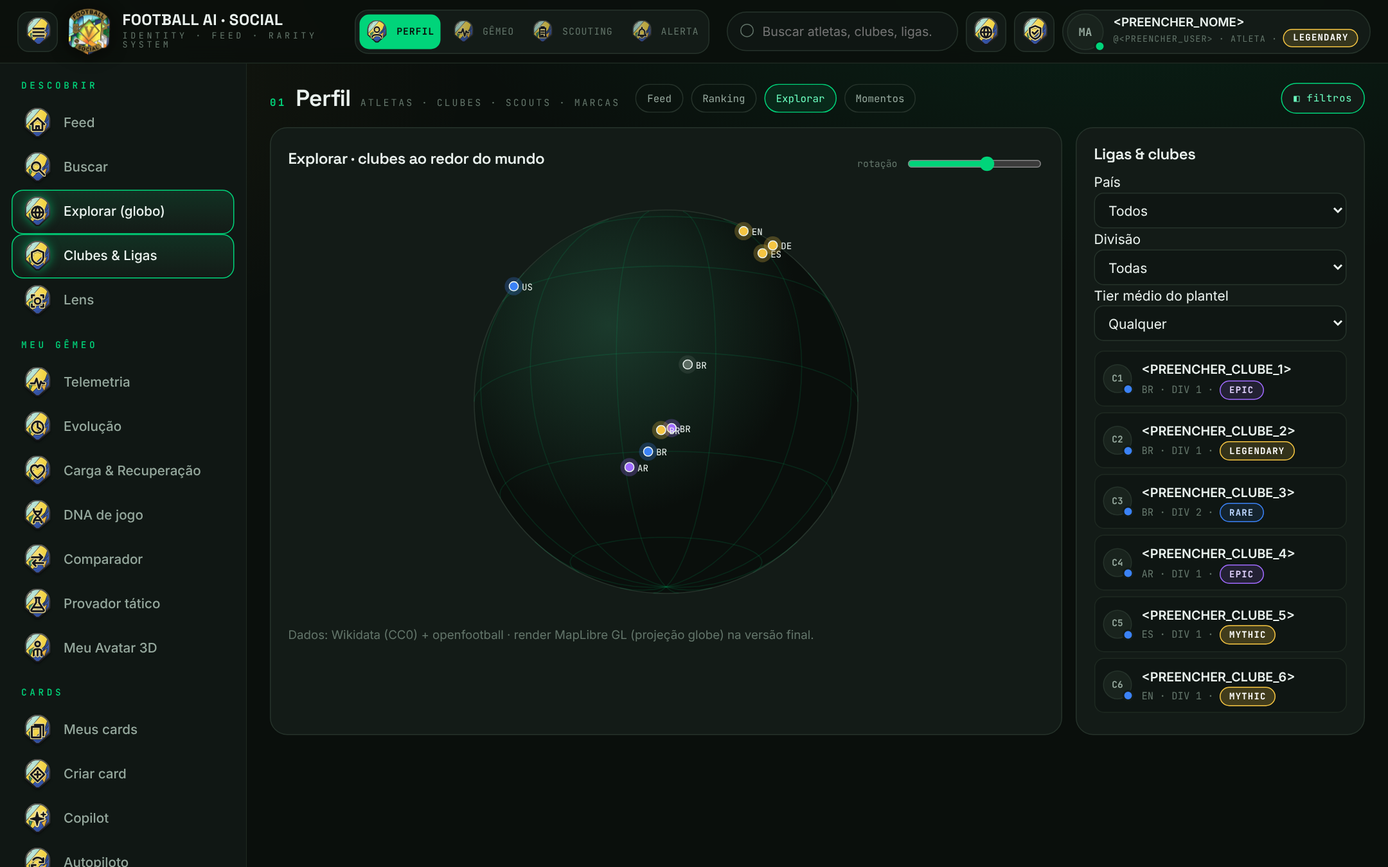
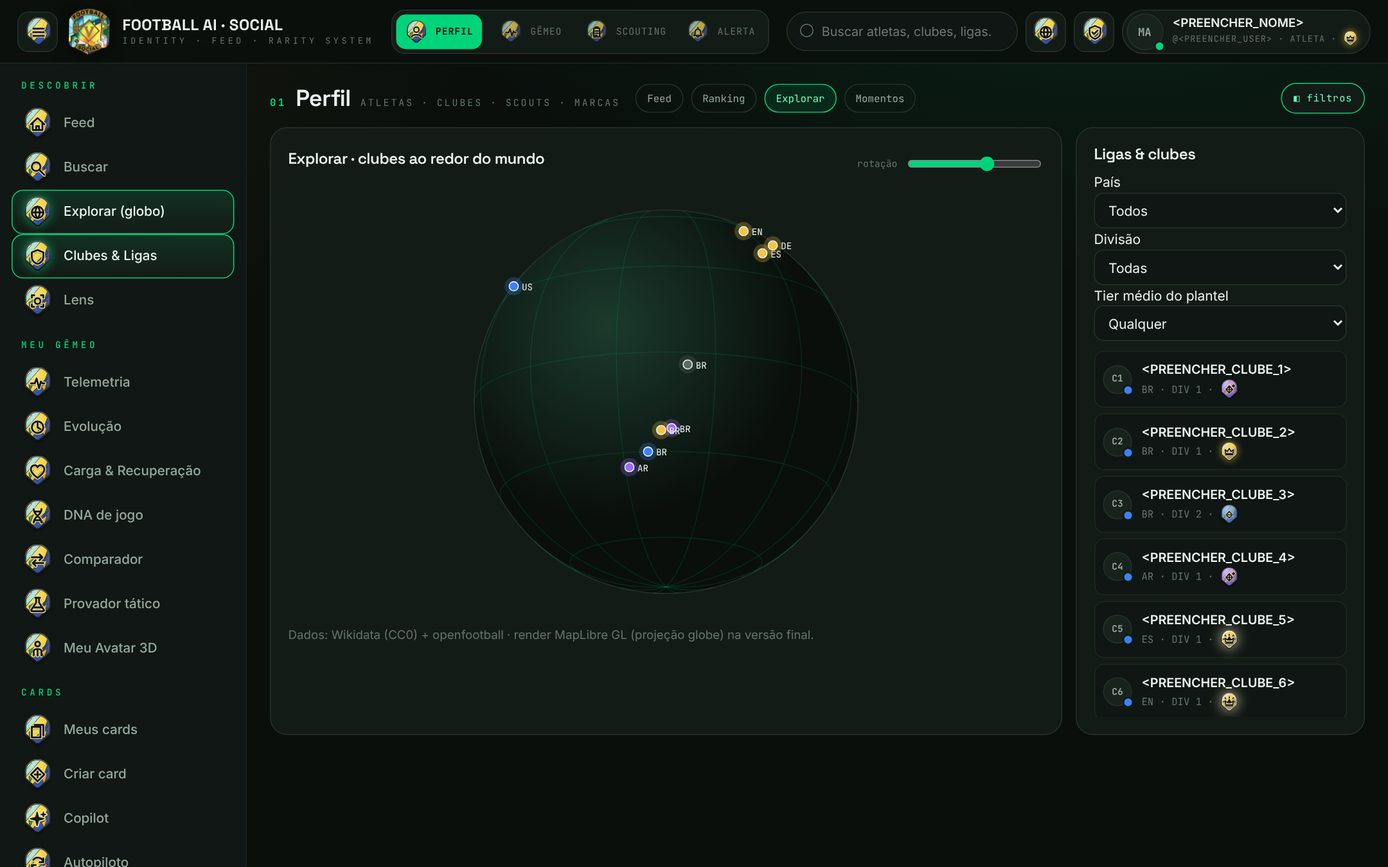
feat(spa): rarity badges as Football Social crests and clean athlete hero
- Add ic-tier-common/rare/epic/legendary/mythic symbols to the icon sprite
  (logo-derived crest tinted per tier, gem or crown glyph, white rim + rays on Mythic)
- Replace every textual LEGENDARY/MYTHIC chip (card ctop, ranking, KPI, topbar
  identity, FLAIR cards, tier filters, evolution chart bands) with the crest icon;
  tier name kept only in aria-label/tooltip
- Remove micro-badges from the athlete hero image; render them as a BADGES row in
  the lower data area, below the conditioning block
- Update CARD_ANATOMY.md and refresh docs/preview/spa screenshots

Claude-Session: https://claude.ai/code/session_01XZjHoxSjPGWnwe63bLQC1o

diff --git a/src/main/resources/static/index.html b/src/main/resources/static/index.html
@@ -145,6 +145,40 @@
   <symbol id="ic-plus" viewBox="0 0 64 64"><use href="#frame"/><g filter="url(#emboss)"><use href="#g-plus" fill="none" stroke="#F5E69C" stroke-width="9.5" stroke-linecap="round" stroke-linejoin="round" opacity=".95"/><use href="#g-plus" fill="none" stroke="#15151A" stroke-width="5.4" stroke-linecap="round" stroke-linejoin="round"/></g></symbol>
   <symbol id="ic-mais" viewBox="0 0 64 64"><use href="#frame"/><g filter="url(#emboss)"><use href="#g-mais" fill="none" stroke="#F5E69C" stroke-width="7.2" stroke-linecap="round" stroke-linejoin="round" opacity=".95"/><use href="#g-mais" fill="none" stroke="#15151A" stroke-width="3.8" stroke-linecap="round" stroke-linejoin="round"/></g></symbol>
   <symbol id="ic-ball" viewBox="0 0 64 64"><use href="#frame"/><g filter="url(#emboss)"><use href="#g-ball" fill="none" stroke="#F5E69C" stroke-width="7.2" stroke-linecap="round" stroke-linejoin="round" opacity=".95"/><use href="#g-ball" fill="none" stroke="#15151A" stroke-width="3.8" stroke-linecap="round" stroke-linejoin="round"/></g></symbol>
+
+  <!-- ===== badges de raridade (Rarity Engine) — brasão tingido + glifo gema/coroa ===== -->
+  <g id="g-tier-common"><path d="M32 23 L41 33 L32 43 L23 33 Z"/></g>
+  <symbol id="ic-tier-common" viewBox="0 0 64 64">
+    <use href="#frame"/>
+    <g clip-path="url(#shieldClip)"><use href="#shield" fill="#5c6b62" opacity=".62"/><use href="#shield" fill="url(#gloss)"/></g>
+    <g filter="url(#emboss)"><use href="#g-tier-common" fill="none" stroke="#F5E69C" stroke-width="7" stroke-linecap="round" stroke-linejoin="round" opacity=".95"/><use href="#g-tier-common" fill="none" stroke="#15151A" stroke-width="3.6" stroke-linecap="round" stroke-linejoin="round"/></g>
+  </symbol>
+  <g id="g-tier-rare"><path d="M32 22 L42 33 L32 44 L22 33 Z M27 33 H37"/></g>
+  <symbol id="ic-tier-rare" viewBox="0 0 64 64">
+    <use href="#frame"/>
+    <g clip-path="url(#shieldClip)"><use href="#shield" fill="#3b82f6" opacity=".62"/><use href="#shield" fill="url(#gloss)"/></g>
+    <g filter="url(#emboss)"><use href="#g-tier-rare" fill="none" stroke="#F5E69C" stroke-width="7" stroke-linecap="round" stroke-linejoin="round" opacity=".95"/><use href="#g-tier-rare" fill="none" stroke="#15151A" stroke-width="3.6" stroke-linecap="round" stroke-linejoin="round"/></g>
+  </symbol>
+  <g id="g-tier-epic"><path d="M32 21 L43 33 L32 45 L21 33 Z M32 21 V45 M21 33 H43"/><path d="M46 17 L47 20 L50 21 L47 22 L46 25 L45 22 L42 21 L45 20 Z"/></g>
+  <symbol id="ic-tier-epic" viewBox="0 0 64 64">
+    <use href="#frame"/>
+    <g clip-path="url(#shieldClip)"><use href="#shield" fill="#a06bff" opacity=".62"/><use href="#shield" fill="url(#gloss)"/></g>
+    <g filter="url(#emboss)"><use href="#g-tier-epic" fill="none" stroke="#F5E69C" stroke-width="7" stroke-linecap="round" stroke-linejoin="round" opacity=".95"/><use href="#g-tier-epic" fill="none" stroke="#15151A" stroke-width="3.6" stroke-linecap="round" stroke-linejoin="round"/></g>
+  </symbol>
+  <g id="g-tier-legendary"><path d="M20 42 H44 M20 38 L18 25 L26 31 L32 21 L38 31 L46 25 L44 38 Z"/></g>
+  <symbol id="ic-tier-legendary" viewBox="0 0 64 64">
+    <use href="#frame"/>
+    <g clip-path="url(#shieldClip)"><use href="#shield" fill="#f5c542" opacity=".62"/><use href="#shield" fill="url(#gloss)"/></g>
+    <use href="#shield" fill="none" stroke="#F5E69C" stroke-opacity=".9" stroke-width="2.2" stroke-linejoin="round" transform="translate(32 32) scale(.9) translate(-32 -32)"/>
+    <g filter="url(#emboss)"><use href="#g-tier-legendary" fill="none" stroke="#F5E69C" stroke-width="7" stroke-linecap="round" stroke-linejoin="round" opacity=".95"/><use href="#g-tier-legendary" fill="none" stroke="#15151A" stroke-width="3.6" stroke-linecap="round" stroke-linejoin="round"/></g>
+  </symbol>
+  <g id="g-tier-mythic"><path d="M20 44 H44 M20 40 L18 27 L26 33 L32 23 L38 33 L46 27 L44 40 Z M32 29 L34.5 33.5 L29.5 33.5 Z"/><path d="M32 14 V18 M18 17 L20.5 20 M46 17 L43.5 20 M12 30 H15 M49 30 H52"/></g>
+  <symbol id="ic-tier-mythic" viewBox="0 0 64 64">
+    <use href="#frame"/>
+    <g clip-path="url(#shieldClip)"><use href="#shield" fill="#f5c542" opacity=".62"/><use href="#shield" fill="url(#gloss)"/></g>
+    <use href="#shield" fill="none" stroke="#FFFFFF" stroke-opacity=".9" stroke-width="2.2" stroke-linejoin="round" transform="translate(32 32) scale(.9) translate(-32 -32)"/>
+    <g filter="url(#emboss)"><use href="#g-tier-mythic" fill="none" stroke="#F5E69C" stroke-width="7" stroke-linecap="round" stroke-linejoin="round" opacity=".95"/><use href="#g-tier-mythic" fill="none" stroke="#15151A" stroke-width="3.6" stroke-linecap="round" stroke-linejoin="round"/></g>
+  </symbol>
 </svg>
 
 <!-- ===================== TOPBAR · logo oficial + brandmark + segmented switcher ===================== -->
@@ -165,7 +199,7 @@
     <button class="icon-btn" id="btnLgpd" aria-label="Privacidade LGPD"><svg class="ic"><use href="#ic-privacidade"/></svg></button>
     <button class="me" id="meBtn" aria-label="Meu perfil">
       <span class="avatar" data-initials="MA"><i class="dot dc-atleta"></i></span>
-      <span class="me-meta"><b>&lt;PREENCHER_NOME&gt;</b><small>@&lt;preencher_user&gt; · atleta · <span class="rarity-chip rc-legendary">LEGENDARY</span></small></span>
+      <span class="me-meta"><b>&lt;PREENCHER_NOME&gt;</b><small>@&lt;preencher_user&gt; · atleta · <svg class="ic tier t-legendary" role="img" aria-label="Tier Legendary"><title>Tier Legendary</title><use href="#ic-tier-legendary"/></svg></small></span>
     </button>
   </div>
 </header>
@@ -249,11 +283,11 @@
         <h3>Filtros · Perfil</h3>
         <form id="form-perfil" class="filter-form">
           <fieldset><legend>Tier do Gêmeo</legend>
-            <label class="chip tier-common"><input type="checkbox" name="tier" value="COMMON"> Common</label>
-            <label class="chip tier-rare"><input type="checkbox" name="tier" value="RARE"> Rare</label>
-            <label class="chip tier-epic"><input type="checkbox" name="tier" value="EPIC"> Epic</label>
-            <label class="chip tier-legendary"><input type="checkbox" name="tier" value="LEGENDARY"> Legendary</label>
-            <label class="chip tier-mythic"><input type="checkbox" name="tier" value="MYTHIC"> Mythic</label>
+            <label class="chip tier-common"><input type="checkbox" name="tier" value="COMMON"><svg class="ic tier t-common" aria-hidden="true"><use href="#ic-tier-common"/></svg> Common</label>
+            <label class="chip tier-rare"><input type="checkbox" name="tier" value="RARE"><svg class="ic tier t-rare" aria-hidden="true"><use href="#ic-tier-rare"/></svg> Rare</label>
+            <label class="chip tier-epic"><input type="checkbox" name="tier" value="EPIC"><svg class="ic tier t-epic" aria-hidden="true"><use href="#ic-tier-epic"/></svg> Epic</label>
+            <label class="chip tier-legendary"><input type="checkbox" name="tier" value="LEGENDARY"><svg class="ic tier t-legendary" aria-hidden="true"><use href="#ic-tier-legendary"/></svg> Legendary</label>
+            <label class="chip tier-mythic"><input type="checkbox" name="tier" value="MYTHIC"><svg class="ic tier t-mythic" aria-hidden="true"><use href="#ic-tier-mythic"/></svg> Mythic</label>
           </fieldset>
           <fieldset><legend>Papel</legend>
             <label class="chip"><input type="checkbox" name="role" value="ATLETA"> <i class="dot xs dc-atleta"></i>Atleta</label>
@@ -361,7 +395,7 @@
       <div class="content">
         <div class="subview" data-sub="telemetria">
           <div class="kpis">
-            <div class="kpi"><small>Score_Total · semana</small><b>1.650</b><span class="rarity-chip rc-legendary">LEGENDARY</span></div>
+            <div class="kpi"><small>Score_Total · semana</small><b>1.650</b><span class="kpi-tier"><svg class="ic tier t-legendary" role="img" aria-label="Tier Legendary"><title>Tier Legendary</title><use href="#ic-tier-legendary"/></svg> tier da semana</span></div>
             <div class="kpi"><small>PP · físico 30%</small><b>82</b><i style="--w:82%"></i></div>
             <div class="kpi"><small>RP · técnico 40%</small><b>88</b><i style="--w:88%"></i></div>
             <div class="kpi"><small>MP · partidas 30%</small><b>76</b><i style="--w:76%"></i></div>

diff --git a/src/main/resources/static/app.js b/src/main/resources/static/app.js
@@ -99,7 +99,9 @@
 
   /* ---------- templates ---------- */
   const esc = s => String(s).replace(/[&<>"]/g, c => ({ '&':'&amp;','<':'&lt;','>':'&gt;','"':'&quot;' }[c]));
-  const chip = t => `<span class="rarity-chip rc-${t.toLowerCase()}">${t}</span>`;
+  /* Badge de raridade — brasão único do Football Social por tier (sem texto; nome no tooltip/aria) */
+  const TIER_LABEL = { COMMON:'Common', RARE:'Rare', EPIC:'Epic', LEGENDARY:'Legendary', MYTHIC:'Mythic' };
+  const chip = t => { const k = String(t || 'COMMON').toUpperCase(); return `<svg class="ic tier t-${k.toLowerCase()}" role="img" aria-label="Tier ${TIER_LABEL[k] || k}" data-tier="${k}"><title>Tier ${TIER_LABEL[k] || k}</title><use href="#ic-tier-${k.toLowerCase()}"/></svg>`; };
   const roleOf = r => ROLES[r] || ROLES.ATLETA;
 
   /* PostCard — borda esquerda = tipo · bolinha = papel · trend por views */
@@ -133,7 +135,8 @@
   const vcard = (a, opts = {}) => {
     const r = roleOf(a.role), t = (a.tier || 'COMMON').toLowerCase();
     const cc = a.tier === 'COMMON' || !a.tier ? '#5c6b62' : TIER_COLOR[a.tier];
-    const micro = a.badges ? `<div class="micro">${a.badges.slice(0, 3).map(b => `<b class="${b[1]}" data-badge="${esc(b[0])}">${esc(b[0])}</b>`).join('')}</div>` : '';
+    // badges Athletic Persona ficam na área inferior de dados (hero limpo, sem stats repetidas)
+    const bdg = a.badges ? `<div class="bdgrow"><small>BADGES</small>${a.badges.slice(0, 3).map(b => `<b class="${b[1]}" data-badge="${esc(b[0])}">${esc(b[0])}</b>`).join('')}</div>` : '';
     const title = a.pos ? `${esc(a.name)} — ${a.pos}` : esc(a.name);
     const sub = a.pos ? `${a.age} anos · ${a.club} · ${a.status === 'AGENTE_LIVRE' ? 'Agente livre' : 'Contratado'} · ${a.sub}` : a.sub;
     let data = '';
@@ -165,11 +168,12 @@
     return `<article class="vcard rarity-${t}${opts.wide ? ' wide' : ''}" style="--cc:${cc}" data-id="${a.id}">
       <div class="outer"><div class="inner">
         <div class="ctop"><span class="l"><span class="vsl">${a.pos ? '◇' : '⬢'}</span>${a.pos ? 'GÊMEO DIGITAL' : (a.meta || 'PERFIL')}</span>${a.phys && a.phys.status === 'INJURED' ? '<span class="age-chip age-sens">SENSÍVEL</span>' : '<span class="age-chip age-safe">SAFE</span>'}${chip(a.tier || 'COMMON')}</div>
-        <div class="imgblock"><svg viewBox="0 0 24 24"><circle cx="12" cy="8" r="4"/><path d="M4 20c0-4 4-6 8-6s8 2 8 6"/></svg>${micro}</div>
+        <div class="imgblock"><svg viewBox="0 0 24 24"><circle cx="12" cy="8" r="4"/><path d="M4 20c0-4 4-6 8-6s8 2 8 6"/></svg></div>
         <div class="author"><span class="dot dc-${r.dc}"></span><span class="handle"><b>${esc(a.handle)}</b> <span>· ${r.label}</span>${a.verified ? '<span class="verified">✦</span>' : ''}</span></div>
         <div class="vtitle">${title}</div>
         <div class="vsub">${esc(sub)}</div>
         ${data}
+        ${bdg}
         <div class="statrow">${stats}</div>
         ${actions}
       </div></div></article>`;
@@ -315,7 +319,7 @@
   function drawEvolution() {
     const scores = [820, 900, 980, 1040, 1180, 1210, 1300, 1420, 1500, 1580, 1610, 1650]; const W = 640, H = 220, pad = 30;
     const x = i => pad + i * (W - 2 * pad) / 11, y = v => H - pad - (v / 3000) * (H - 2 * pad); let s = '';
-    [[0,400,'#5c6b62','COMMON'],[401,900,'#3b82f6','RARE'],[901,1600,'#a06bff','EPIC'],[1601,2400,'#f5c542','LEGEND.'],[2401,3000,'#ffe08a','MYTHIC']].forEach(([a, b, c, l]) => { s += `<rect x="${pad}" y="${y(b)}" width="${W - 2 * pad}" height="${y(a) - y(b)}" fill="${c}" opacity=".08"/><text x="${W - pad + 2}" y="${y(a) - 2}" font-size="8" font-family="JetBrains Mono,monospace" fill="${c}">${l}</text>`; });
+    [[0,400,'#5c6b62','common'],[401,900,'#3b82f6','rare'],[901,1600,'#a06bff','epic'],[1601,2400,'#f5c542','legendary'],[2401,3000,'#ffe08a','mythic']].forEach(([a, b, c, l]) => { const ih = Math.min(22, y(a) - y(b) - 2); s += `<rect x="${pad}" y="${y(b)}" width="${W - 2 * pad}" height="${y(a) - y(b)}" fill="${c}" opacity=".08"/><use href="#ic-tier-${l}" x="${W - pad + 3}" y="${(y(a) + y(b)) / 2 - ih / 2}" width="${ih}" height="${ih}"><title>Tier ${l}</title></use>`; });
     s += line(scores.map((v, i) => [x(i), y(v)]), '#f5c542') + scores.map((v, i) => `<circle cx="${x(i)}" cy="${y(v)}" r="3.5" fill="#f5c542"/><text x="${x(i)}" y="${H - 10}" font-size="8" font-family="JetBrains Mono,monospace" text-anchor="middle" fill="#63756a">W${32 + i}</text>`).join('');
     s += `<circle cx="${x(7)}" cy="${y(1420)}" r="8" fill="none" stroke="#a06bff"/><text x="${x(7)}" y="${y(1420) - 12}" font-size="8" font-family="JetBrains Mono,monospace" text-anchor="middle" fill="#e2d3ff">EPIC → LEGENDARY (W39)</text>`;
     $('#evoChart').innerHTML = s;
@@ -405,7 +409,7 @@
       else if (kind === 'save') { act.classList.toggle('on'); toast(act.classList.contains('on') ? 'SALVO' : 'REMOVIDO DOS SALVOS'); }
       return;
     }
-    const b = e.target.closest('.micro b[data-badge]'); if (b) toast(`TAP TO EXPAND · ${b.dataset.badge} · GET /v1/athletes/{id}/badges/{type}/history`); });
+    const b = e.target.closest('.bdgrow b[data-badge]'); if (b) toast(`TAP TO EXPAND · ${b.dataset.badge} · GET /v1/athletes/{id}/badges/{type}/history`); });
 
   $$('.sorttabs').forEach(st => st.addEventListener('click', e => { const b = e.target.closest('button'); if (!b) return; $$('button', st).forEach(x => x.classList.toggle('on', x === b)); toast(`ORDENAR · ${b.textContent.toUpperCase()}`); }));
 

diff --git a/docs/preview/icons.html b/docs/preview/icons.html
@@ -158,6 +158,40 @@ h2{font-size:11px;letter-spacing:.16em;text-transform:uppercase;color:#9AA3B2;ma
   <symbol id="ic-plus" viewBox="0 0 64 64"><use href="#frame"/><g filter="url(#emboss)"><use href="#g-plus" fill="none" stroke="#F5E69C" stroke-width="9.5" stroke-linecap="round" stroke-linejoin="round" opacity=".95"/><use href="#g-plus" fill="none" stroke="#15151A" stroke-width="5.4" stroke-linecap="round" stroke-linejoin="round"/></g></symbol>
   <symbol id="ic-mais" viewBox="0 0 64 64"><use href="#frame"/><g filter="url(#emboss)"><use href="#g-mais" fill="none" stroke="#F5E69C" stroke-width="7.2" stroke-linecap="round" stroke-linejoin="round" opacity=".95"/><use href="#g-mais" fill="none" stroke="#15151A" stroke-width="3.8" stroke-linecap="round" stroke-linejoin="round"/></g></symbol>
   <symbol id="ic-ball" viewBox="0 0 64 64"><use href="#frame"/><g filter="url(#emboss)"><use href="#g-ball" fill="none" stroke="#F5E69C" stroke-width="7.2" stroke-linecap="round" stroke-linejoin="round" opacity=".95"/><use href="#g-ball" fill="none" stroke="#15151A" stroke-width="3.8" stroke-linecap="round" stroke-linejoin="round"/></g></symbol>
+
+  <!-- ===== badges de raridade (Rarity Engine) — brasão tingido + glifo gema/coroa ===== -->
+  <g id="g-tier-common"><path d="M32 23 L41 33 L32 43 L23 33 Z"/></g>
+  <symbol id="ic-tier-common" viewBox="0 0 64 64">
+    <use href="#frame"/>
+    <g clip-path="url(#shieldClip)"><use href="#shield" fill="#5c6b62" opacity=".62"/><use href="#shield" fill="url(#gloss)"/></g>
+    <g filter="url(#emboss)"><use href="#g-tier-common" fill="none" stroke="#F5E69C" stroke-width="7" stroke-linecap="round" stroke-linejoin="round" opacity=".95"/><use href="#g-tier-common" fill="none" stroke="#15151A" stroke-width="3.6" stroke-linecap="round" stroke-linejoin="round"/></g>
+  </symbol>
+  <g id="g-tier-rare"><path d="M32 22 L42 33 L32 44 L22 33 Z M27 33 H37"/></g>
+  <symbol id="ic-tier-rare" viewBox="0 0 64 64">
+    <use href="#frame"/>
+    <g clip-path="url(#shieldClip)"><use href="#shield" fill="#3b82f6" opacity=".62"/><use href="#shield" fill="url(#gloss)"/></g>
+    <g filter="url(#emboss)"><use href="#g-tier-rare" fill="none" stroke="#F5E69C" stroke-width="7" stroke-linecap="round" stroke-linejoin="round" opacity=".95"/><use href="#g-tier-rare" fill="none" stroke="#15151A" stroke-width="3.6" stroke-linecap="round" stroke-linejoin="round"/></g>
+  </symbol>
+  <g id="g-tier-epic"><path d="M32 21 L43 33 L32 45 L21 33 Z M32 21 V45 M21 33 H43"/><path d="M46 17 L47 20 L50 21 L47 22 L46 25 L45 22 L42 21 L45 20 Z"/></g>
+  <symbol id="ic-tier-epic" viewBox="0 0 64 64">
+    <use href="#frame"/>
+    <g clip-path="url(#shieldClip)"><use href="#shield" fill="#a06bff" opacity=".62"/><use href="#shield" fill="url(#gloss)"/></g>
+    <g filter="url(#emboss)"><use href="#g-tier-epic" fill="none" stroke="#F5E69C" stroke-width="7" stroke-linecap="round" stroke-linejoin="round" opacity=".95"/><use href="#g-tier-epic" fill="none" stroke="#15151A" stroke-width="3.6" stroke-linecap="round" stroke-linejoin="round"/></g>
+  </symbol>
+  <g id="g-tier-legendary"><path d="M20 42 H44 M20 38 L18 25 L26 31 L32 21 L38 31 L46 25 L44 38 Z"/></g>
+  <symbol id="ic-tier-legendary" viewBox="0 0 64 64">
+    <use href="#frame"/>
+    <g clip-path="url(#shieldClip)"><use href="#shield" fill="#f5c542" opacity=".62"/><use href="#shield" fill="url(#gloss)"/></g>
+    <use href="#shield" fill="none" stroke="#F5E69C" stroke-opacity=".9" stroke-width="2.2" stroke-linejoin="round" transform="translate(32 32) scale(.9) translate(-32 -32)"/>
+    <g filter="url(#emboss)"><use href="#g-tier-legendary" fill="none" stroke="#F5E69C" stroke-width="7" stroke-linecap="round" stroke-linejoin="round" opacity=".95"/><use href="#g-tier-legendary" fill="none" stroke="#15151A" stroke-width="3.6" stroke-linecap="round" stroke-linejoin="round"/></g>
+  </symbol>
+  <g id="g-tier-mythic"><path d="M20 44 H44 M20 40 L18 27 L26 33 L32 23 L38 33 L46 27 L44 40 Z M32 29 L34.5 33.5 L29.5 33.5 Z"/><path d="M32 14 V18 M18 17 L20.5 20 M46 17 L43.5 20 M12 30 H15 M49 30 H52"/></g>
+  <symbol id="ic-tier-mythic" viewBox="0 0 64 64">
+    <use href="#frame"/>
+    <g clip-path="url(#shieldClip)"><use href="#shield" fill="#f5c542" opacity=".62"/><use href="#shield" fill="url(#gloss)"/></g>
+    <use href="#shield" fill="none" stroke="#FFFFFF" stroke-opacity=".9" stroke-width="2.2" stroke-linejoin="round" transform="translate(32 32) scale(.9) translate(-32 -32)"/>
+    <g filter="url(#emboss)"><use href="#g-tier-mythic" fill="none" stroke="#F5E69C" stroke-width="7" stroke-linecap="round" stroke-linejoin="round" opacity=".95"/><use href="#g-tier-mythic" fill="none" stroke="#15151A" stroke-width="3.6" stroke-linecap="round" stroke-linejoin="round"/></g>
+  </symbol>
 </svg>
 <div class="logo">
   <img src="../brand/logo-cutout.png" alt="Logo oficial" style="background:#0a0f0c">

diff --git a/src/main/resources/static/styles.css b/src/main/resources/static/styles.css
@@ -103,6 +103,18 @@ input:focus,select:focus,textarea:focus{outline:none;border-color:var(--green);b
 .rc-epic{--rr-fg:#e2d3ff;--rr-bd:var(--c-purple);--rr-bg:rgba(160,107,255,.14)}
 .rc-legendary{--rr-fg:#fff;--rr-bd:var(--gold);--rr-bg:rgba(245,197,66,.16)}
 .rc-mythic{--rr-fg:#fff;--rr-bd:var(--gold);--rr-bg:rgba(245,197,66,.22)}
+/* badge de raridade (brasão por tier) — substitui o chip textual */
+svg.ic.tier{width:24px;height:24px;flex:none;vertical-align:middle;filter:drop-shadow(0 1px 1px rgba(0,0,0,.55))}
+svg.ic.tier.t-legendary{filter:drop-shadow(0 0 4px rgba(245,197,66,.6))}
+svg.ic.tier.t-mythic{filter:drop-shadow(0 0 6px rgba(245,197,66,.85));animation:tierGlow 2.6s ease-in-out infinite}
+@keyframes tierGlow{0%,100%{filter:drop-shadow(0 0 4px rgba(245,197,66,.6))}50%{filter:drop-shadow(0 0 9px rgba(255,255,255,.9))}}
+.vcard .ctop svg.ic.tier{width:30px;height:30px;margin:-4px 0}
+.me-meta small svg.ic.tier{width:16px;height:16px}
+.chip svg.ic.tier{width:18px;height:18px;margin-right:2px}
+.kpi .kpi-tier{display:flex;align-items:center;gap:6px;font-family:var(--font-mono);font-size:.58rem;letter-spacing:.1em;text-transform:uppercase;color:var(--text-3)} .kpi .kpi-tier svg.ic.tier{width:30px;height:30px}
+.ranking td svg.ic.tier{width:28px;height:28px}
+.fcard svg.ic.tier{width:18px;height:18px}
+.explore li svg.ic.tier{width:20px;height:20px}
 
 /* ---------- Shell / Sidebar ---------- */
 .shell{display:grid;grid-template-columns:var(--sidebar-w) 1fr;min-height:calc(100vh - var(--topbar-h))}
@@ -223,9 +235,10 @@ input:focus,select:focus,textarea:focus{outline:none;border-color:var(--green);b
 .vcard .ctop .l{margin-right:auto}
 .vcard .imgblock{margin:12px 0;height:108px;border-radius:10px;background:linear-gradient(135deg,color-mix(in srgb,var(--cc,#5c6b62) 26%,#0c110d),#0c110d);display:flex;align-items:center;justify-content:center;border:1px solid var(--line-soft);position:relative}
 .vcard .imgblock svg{opacity:.55;width:46px;height:46px;stroke:var(--cc,#5c6b62);fill:none;stroke-width:1.4}
-.vcard .imgblock .micro{position:absolute;left:8px;right:8px;bottom:8px;display:flex;gap:5px}
-.vcard .micro b{flex:1;font-family:var(--font-mono);font-size:.56rem;font-weight:600;color:var(--text);background:color-mix(in srgb,var(--ink) 72%,transparent);border:1px solid var(--line);border-radius:6px;padding:4px 5px;text-align:center;white-space:nowrap;overflow:hidden;text-overflow:ellipsis;cursor:pointer;backdrop-filter:blur(4px)}
-.vcard .micro b.green{border-color:var(--c-green);color:var(--green-hi)} .vcard .micro b.red{border-color:var(--c-red);color:#ffb3b3} .vcard .micro b.yellow{border-color:var(--c-yellow);color:var(--c-yellow)}
+.vcard .bdgrow{display:flex;align-items:center;gap:6px;flex-wrap:wrap;margin-top:10px}
+.vcard .bdgrow small{font-family:var(--font-mono);font-size:.56rem;letter-spacing:.12em;color:var(--text-3);margin-right:2px}
+.vcard .bdgrow b{font-family:var(--font-mono);font-size:.58rem;font-weight:600;color:var(--text);background:var(--panel-2);border:1px solid var(--line);border-radius:999px;padding:4px 9px;white-space:nowrap;cursor:pointer}
+.vcard .bdgrow b.green{border-color:var(--c-green);color:var(--green-hi)} .vcard .bdgrow b.red{border-color:var(--c-red);color:#ffb3b3} .vcard .bdgrow b.yellow{border-color:var(--c-yellow);color:var(--c-yellow)}
 .vcard .author{display:flex;align-items:center;gap:9px;margin-top:8px}
 .vcard .vtitle{font-family:var(--font-display);font-weight:600;font-size:1.02rem;margin-top:11px;line-height:1.22;color:var(--text)}
 .vcard .vsub{font-size:.83rem;color:var(--text-2);margin-top:6px;display:-webkit-box;-webkit-line-clamp:2;-webkit-box-orient:vertical;overflow:hidden}

diff --git a/docs/CARD_ANATOMY.md b/docs/CARD_ANATOMY.md
@@ -83,16 +83,17 @@
 ```
 ┌ outer: gradiente da cor de contexto (raridade) 2 px ───────────────────┐
 │┌ inner ─────────────────────────────────────────────────────────────┐ │
-││ ◇ GÊMEO DIGITAL                               [SAFE] [LEGENDARY]   │ │ ← ctop
+││ ◇ GÊMEO DIGITAL                            [SAFE] (brasão tier)   │ │ ← ctop
 ││ ┌ imgblock 108 px ─────────────────────────────────────────────┐   │ │
 ││ │                        (foto / avatar)                       │   │ │
-││ │  [⚡ PRONTO] [⚽ 14] [🏆 3]        ← micro-badges ≤ 3          │   │ │
+││ │              hero limpo — sem stats nem badges sobrepostos    │   │ │
 ││ └──────────────────────────────────────────────────────────────┘   │ │
 ││ ● @handle · atleta ✦                                               │ │ ← author
 ││ Nome — Posição                                                     │ │ ← vtitle
 ││ 22 anos · Clube · Contratado · Referência estadual…  (≤ 2 linhas)  │ │ ← vsub
 ││ ┌JOGOS 22┐┌GOLS 14┐┌ASSIST. 7┐┌MINUTOS 1.980┐┌CARTÕES 3 0┐┌NOTA 8.4┐│ │ ← sgrid (temporada)
 ││ ┌ CONDICIONAMENTO ▬▬▬▬▬▬▬▬▬░░ prontidão 78% · ACWR 1,21  ⚡ PRONTO ┐│ │ ← phys
+││ BADGES (⚡ PRONTO) (⚽ 14) (🏆 3)                 ← Athletic Persona ≤ 3  │ │ ← bdgrow
 ││ ─ ─ PP 1.240 · RP 780 · MP 76 · SCORE 1.650 ─ ─ ─ ─ ─ ─ ─ ─ ─ ─ ─ ─│ │ ← statrow
 ││ (♡ Curtir 241) (💬 Comentar 18) (↗ Compartilhar 9)     (Gêmeo →)   │ │ ← actbar
 │└────────────────────────────────────────────────────────────────────┘ │
@@ -101,8 +102,9 @@
 
 | Zona | Conteúdo | Regras |
 |---|---|---|
-| `ctop` | VSL + contexto (`GÊMEO DIGITAL`, `CLUBE FORMADOR`, `SCOUT`) · `age-chip` · `rarity-chip` | `age-chip` vira `SENSÍVEL` quando o card expõe dado médico. |
-| `imgblock` | 108 px, gradiente da cor de contexto; **micro-badges** (≤ 3) sobrepostos na base | prioridade: status físico → `priority` → contador; toque abre o histórico (*tap to expand*). |
+| `ctop` | VSL + contexto (`GÊMEO DIGITAL`, `CLUBE FORMADOR`, `SCOUT`) · `age-chip` · **brasão de raridade** (`ic-tier-*`) | `age-chip` vira `SENSÍVEL` quando o card expõe dado médico. O tier **nunca é escrito** (sem “LEGENDARY/MYTHIC” em texto): é um ícone único do Football Social — brasão do logo tingido na cor do tier com gema (Common ◇, Rare, Epic ✦) ou coroa (Legendary, Mythic com raios e aro branco). O nome do tier fica só em `aria-label`/tooltip. |
+| `imgblock` | 108 px, gradiente da cor de contexto; **hero limpo** (foto/avatar apenas) | nada sobreposto à imagem: nem stats, nem títulos, nem badges — evita repetir gols/títulos que já estão no `sgrid`. |
+| **`bdgrow` (badges)** | rótulo `BADGES` + até 3 pills *Athletic Persona* (status físico → `priority` → contador), na área inferior de dados, logo abaixo de `phys` | toque abre o histórico (*tap to expand*); nunca sobre a imagem. |
 | `author` | bolinha 13 px + `@handle · papel`; ✦ dourado = verificado | |
 | `vtitle` / `vsub` | Nome — Posição · metadados + leitura do tier (≤ 2 linhas) | |
 | **`sgrid` (temporada)** | Jogos · Gols (goleiro: Clean sheets) · Assistências (defensor: Desarmes) · Minutos · Cartões (🟨 🟥) · Nota média | tiles mono .5 rem + Space Grotesk 1.05 rem. |
